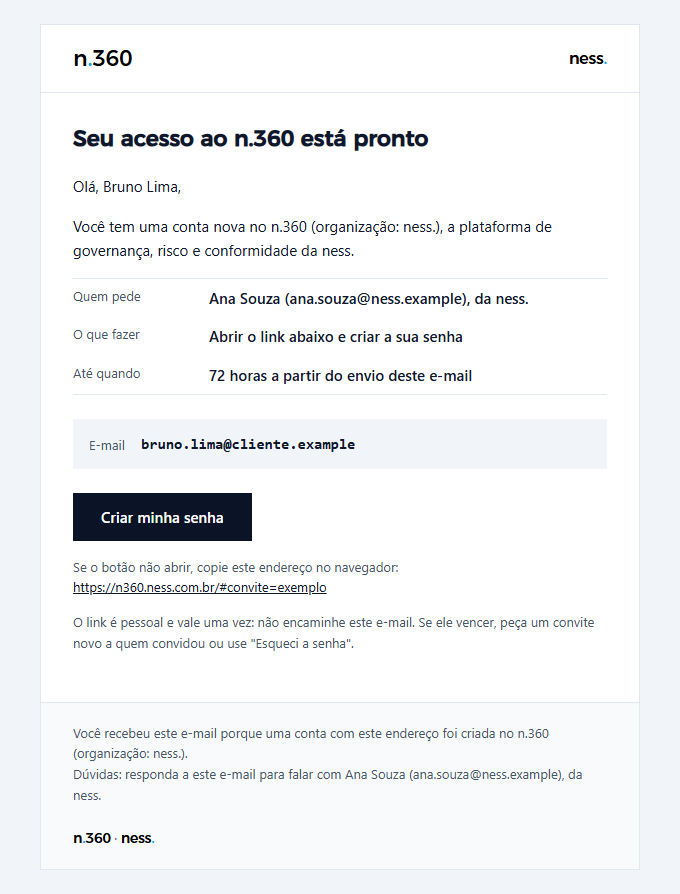
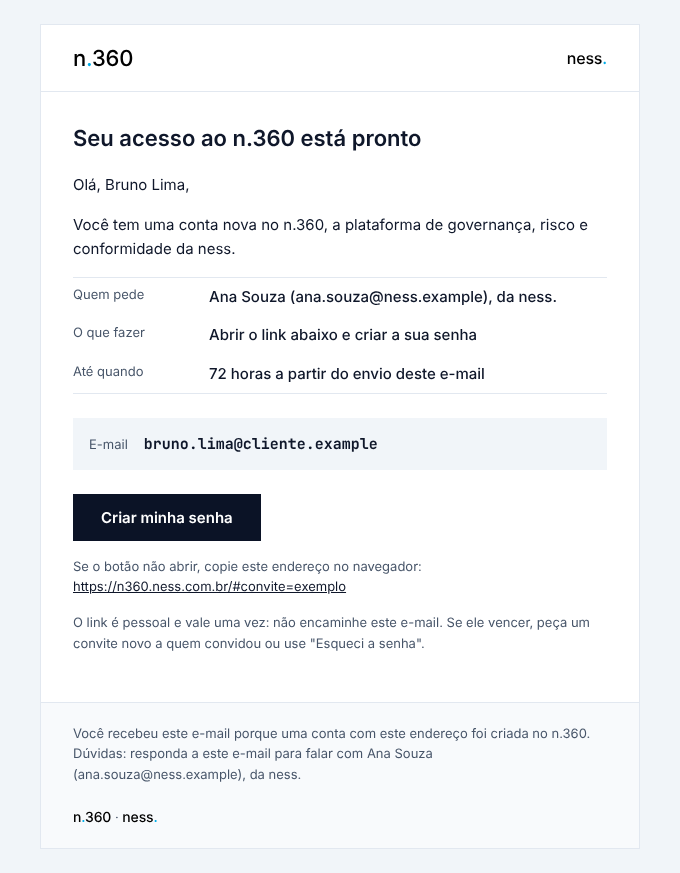
Ajustes da revisao da ficha da atividade
- Progresso da ficha em N de 6 partes: Controle de GAPs e Riscos ficam
  fora da conta e do 'Ir para a proxima pendencia' (numeracao das abas
  mantida); design.md atualizado.
- Regra do art. 11 e do volume ou descricao em funcoes unicas
  (conferencia.ts), usadas pela ficha, pela proxima pergunta e pela
  conferencia.
- Aba Agentes: falha ao carregar as partes avisa como a falha das etapas.
- Guiado: contador ignora as perguntas adiadas; titulo em constante.
- copiloto-etapa: comentario corrigido (parceiro nao conta como base).
- E-mail de boas-vindas: '(consultoria: X)' so para a equipe da
  consultoria; amostra do convite regerada.
- AGENTS.md: excecao da seta das etapas e contagens remedidas.
- CHANGELOG.

diff --git a/docs/design/emails/convite.html b/docs/design/emails/convite.html
@@ -1,14 +1,14 @@
 <!doctype html>
-<html lang="pt-BR"><head><meta charset="utf-8"><meta name="viewport" content="width=device-width, initial-scale=1"><meta name="color-scheme" content="light"><meta name="supported-color-schemes" content="light"><title>Seu acesso ao n.360 (ness.)</title></head>
+<html lang="pt-BR"><head><meta charset="utf-8"><meta name="viewport" content="width=device-width, initial-scale=1"><meta name="color-scheme" content="light"><meta name="supported-color-schemes" content="light"><title>Seu acesso ao n.360</title></head>
 <body style="margin:0;padding:0;background:#f1f5f9;">
-<div style="display:none;max-height:0;overflow:hidden;mso-hide:all;">Sua conta no n.360 foi criada (organização: ness.).</div>
+<div style="display:none;max-height:0;overflow:hidden;mso-hide:all;">Sua conta no n.360 foi criada.</div>
 <table role="presentation" width="100%" cellpadding="0" cellspacing="0" border="0" style="background:#f1f5f9;"><tr><td align="center" style="padding:24px 12px;">
 <table role="presentation" width="600" cellpadding="0" cellspacing="0" border="0" style="width:100%;max-width:600px;background:#ffffff;border:1px solid #e2e8f0;">
 <tr><td style="padding:20px 32px;border-bottom:1px solid #e2e8f0;"><table role="presentation" width="100%" cellpadding="0" cellspacing="0" border="0"><tr>
 <td align="left"><span style="font-family:Montserrat, 'Segoe UI', Arial, sans-serif;font-weight:500;font-size:22px;letter-spacing:-0.01em;color:#000000;">n<span style="color:#00ade8;">.</span>360</span></td><td align="right"><span style="font-family:Montserrat, 'Segoe UI', Arial, sans-serif;font-weight:500;font-size:16px;letter-spacing:-0.01em;color:#000000;">ness<span style="color:#00ade8;">.</span></span></td></tr></table></td></tr>
 <tr><td style="padding:32px;">
 <h1 style="margin:0 0 20px;font-family:Montserrat, 'Segoe UI', Arial, sans-serif;font-weight:600;font-size:22px;line-height:1.3;color:#0f172a;">Seu acesso ao n.360 está pronto</h1>
-<p style="margin:0 0 16px;font-family:Inter, 'Segoe UI', Arial, sans-serif;font-size:15px;line-height:1.6;color:#0f172a;">Olá, Bruno Lima,</p><p style="margin:0 0 16px;font-family:Inter, 'Segoe UI', Arial, sans-serif;font-size:15px;line-height:1.6;color:#0f172a;">Você tem uma conta nova no n.360 (organização: ness.), a plataforma de governança, risco e conformidade da ness.</p>
+<p style="margin:0 0 16px;font-family:Inter, 'Segoe UI', Arial, sans-serif;font-size:15px;line-height:1.6;color:#0f172a;">Olá, Bruno Lima,</p><p style="margin:0 0 16px;font-family:Inter, 'Segoe UI', Arial, sans-serif;font-size:15px;line-height:1.6;color:#0f172a;">Você tem uma conta nova no n.360, a plataforma de governança, risco e conformidade da ness.</p>
 
 <table role="presentation" width="100%" cellpadding="0" cellspacing="0" border="0" style="margin:0 0 24px;border-top:1px solid #e2e8f0;border-bottom:1px solid #e2e8f0;"><tr><td valign="top" style="padding:8px 16px 8px 0;font-family:Inter, 'Segoe UI', Arial, sans-serif;font-size:13px;color:#475569;white-space:nowrap;width:120px;">Quem pede</td><td valign="top" style="padding:8px 0;font-family:Inter, 'Segoe UI', Arial, sans-serif;font-size:15px;line-height:1.5;color:#0f172a;font-weight:500;">Ana Souza (ana.souza@ness.example), da ness.</td></tr><tr><td valign="top" style="padding:8px 16px 8px 0;font-family:Inter, 'Segoe UI', Arial, sans-serif;font-size:13px;color:#475569;white-space:nowrap;width:120px;">O que fazer</td><td valign="top" style="padding:8px 0;font-family:Inter, 'Segoe UI', Arial, sans-serif;font-size:15px;line-height:1.5;color:#0f172a;font-weight:500;">Abrir o link abaixo e criar a sua senha</td></tr><tr><td valign="top" style="padding:8px 16px 8px 0;font-family:Inter, 'Segoe UI', Arial, sans-serif;font-size:13px;color:#475569;white-space:nowrap;width:120px;">Até quando</td><td valign="top" style="padding:8px 0;font-family:Inter, 'Segoe UI', Arial, sans-serif;font-size:15px;line-height:1.5;color:#0f172a;font-weight:500;">72 horas a partir do envio deste e-mail</td></tr></table>
 <table role="presentation" width="100%" cellpadding="0" cellspacing="0" border="0" style="margin:0 0 24px;background:#f1f5f9;"><tr><td style="padding:12px 16px;"><table role="presentation" cellpadding="0" cellspacing="0" border="0"><tr><td style="padding:4px 16px 4px 0;font-family:Inter, 'Segoe UI', Arial, sans-serif;font-size:13px;color:#475569;">E-mail</td><td style="padding:4px 0;font-family:'JetBrains Mono', Consolas, 'Courier New', monospace;font-size:15px;color:#0f172a;"><strong>bruno.lima@cliente.example</strong></td></tr></table></td></tr></table>
@@ -19,7 +19,7 @@
 <p style="margin:0 0 16px;font-family:Inter, 'Segoe UI', Arial, sans-serif;font-size:15px;line-height:1.6;color:#0f172a;font-size:13px;color:#475569;">O link é pessoal e vale uma vez: não encaminhe este e-mail. Se ele vencer, peça um convite novo a quem convidou ou use &quot;Esqueci a senha&quot;.</p>
 </td></tr>
 <tr><td style="padding:20px 32px;background:#f8fafc;border-top:1px solid #e2e8f0;font-family:Inter, 'Segoe UI', Arial, sans-serif;font-size:13px;line-height:1.6;color:#475569;">
-Você recebeu este e-mail porque uma conta com este endereço foi criada no n.360 (organização: ness.).<br>Dúvidas: responda a este e-mail para falar com Ana Souza (ana.souza@ness.example), da ness.<br><br><span style="font-family:Montserrat, 'Segoe UI', Arial, sans-serif;font-weight:500;font-size:14px;letter-spacing:-0.01em;color:#000000;">n<span style="color:#00ade8;">.</span>360</span> <span style="color:#475569;">·</span> <span style="font-family:Montserrat, 'Segoe UI', Arial, sans-serif;font-weight:500;font-size:14px;letter-spacing:-0.01em;color:#000000;">ness<span style="color:#00ade8;">.</span></span>
+Você recebeu este e-mail porque uma conta com este endereço foi criada no n.360.<br>Dúvidas: responda a este e-mail para falar com Ana Souza (ana.souza@ness.example), da ness.<br><br><span style="font-family:Montserrat, 'Segoe UI', Arial, sans-serif;font-weight:500;font-size:14px;letter-spacing:-0.01em;color:#000000;">n<span style="color:#00ade8;">.</span>360</span> <span style="color:#475569;">·</span> <span style="font-family:Montserrat, 'Segoe UI', Arial, sans-serif;font-weight:500;font-size:14px;letter-spacing:-0.01em;color:#000000;">ness<span style="color:#00ade8;">.</span></span>
 </td></tr>
 </table></td></tr></table>
 </body></html>

diff --git a/src/routes/users.ts b/src/routes/users.ts
@@ -5,7 +5,7 @@ import { remetente } from '../services/email-layout';
 import { emailBoasVindas } from '../services/emails';
 import { emitirConvite, linkDoConvite, SEM_SENHA, HORAS_CONVITE } from '../services/convite';
 import { configPorDominio } from '../sso';
-import { genId, hashPassword, logAudit, rateLimitD1, sendEmail, invalidateUserSessions, revogarAgentesPorTrocaDeSenha, erro500, ehConsultor, ehAdminDaOrg, consultorDesignado, PROJETOS_DO_CONSULTOR_SQL, PAPEIS_EQUIPE_ORG } from '../helpers';
+import { genId, hashPassword, logAudit, rateLimitD1, sendEmail, invalidateUserSessions, revogarAgentesPorTrocaDeSenha, erro500, ehConsultor, ehAdminDaOrg, ehEquipeNess, consultorDesignado, PROJETOS_DO_CONSULTOR_SQL, PAPEIS_EQUIPE_ORG } from '../helpers';
 import { validateBody, createUserSchema, updateUserSchema, modulosDaContaSchema, ativoDaContaSchema } from '../schemas';
 import { MODULOS_PRODUTO, NOME_DO_PRODUTO, modulosContratados, modulosDaPessoa, modulosDoProjeto, type Modulo } from '../modulos';
 import { appUrl } from '../config/url';
@@ -183,12 +183,12 @@ async function comModulos<T extends { id: string; role: string; client_project_i
  * uso único, só o hash no banco) e manda o link de criar a senha; o token nunca vai para log, trilha nem resposta. Domínio de e-mail
  * com SSO ativo não ganha link (a pessoa entra pelo IdP). Devolve se o provedor aceitou.
  */
-export async function enviarBoasVindas(c: any, conta: { id: string; email: string; name: string }, nomeOrg: string): Promise<boolean> {
+export async function enviarBoasVindas(c: any, conta: { id: string; email: string; name: string; role: string }, nomeOrg: string): Promise<boolean> {
   const quem = c.get?.('user') as { name?: string; email?: string } | undefined;
   const convidante = quem?.email ? { nome: quem.name ?? null, email: quem.email, organizacao: nomeOrg } : null;
   const sso = await configPorDominio(c.env, conta.email);
   const link = sso ? null : linkDoConvite(c.env, await emitirConvite(c.env.DB, conta.id, quem?.email ?? 'sistema'));
-  const m = emailBoasVindas({ nome: conta.name, email: conta.email, organizacao: nomeOrg, convidante, url: appUrl(c.env), link, horas: HORAS_CONVITE });
+  const m = emailBoasVindas({ nome: conta.name, email: conta.email, organizacao: nomeOrg, equipe: ehEquipeNess(conta), convidante, url: appUrl(c.env), link, horas: HORAS_CONVITE });
   return sendEmail(c, conta.email, m.assunto, m, { from: remetente('n.360', nomeOrg), ...(quem?.email ? { replyTo: quem.email } : {}) });
 }
 
@@ -253,7 +253,7 @@ usersApp.post('/', async (c) => {
 
     await logAudit(c.env.DB, 'user.created', admin.email, `Usuário ${email} criado como ${targetRole}`);
 
-    const emailEnviado = await enviarBoasVindas(c, { id, email, name }, await nomeDaOrg(c.env.DB, orgNovo)).catch(() => false);
+    const emailEnviado = await enviarBoasVindas(c, { id, email, name, role: targetRole }, await nomeDaOrg(c.env.DB, orgNovo)).catch(() => false);
 
     return c.json({ id, email, name, role: targetRole, client_project_id: targetProject, emailEnviado }, 201);
   } catch (e: any) {
@@ -566,7 +566,7 @@ usersApp.post('/:id/reenviar-convite', async (c) => {
     // A senha provisória de antes do convite por link deixa de valer junto com o link anterior.
     await db.prepare('UPDATE users SET password_hash = ? WHERE id = ?').bind(SEM_SENHA, user.id).run();
     await invalidateUserSessions(c.env.SESSIONS, user.id);
-    const emailEnviado = await enviarBoasVindas(c, { id: user.id, email: user.email, name: conta.name ?? '' }, await nomeDaOrg(db, user.org)).catch(() => false);
+    const emailEnviado = await enviarBoasVindas(c, { id: user.id, email: user.email, name: conta.name ?? '', role: user.role }, await nomeDaOrg(db, user.org)).catch(() => false);
     await logAudit(db, 'user.convite_reenviado', c.get('user').email, `Convite da conta ${user.email} (${user.id}) reenviado`, '', c.req.header('CF-Connecting-IP') ?? '',
       user.client_project_id ?? undefined);
     return c.json({ ok: true, emailEnviado });

diff --git a/src/services/ropa-abas/ficha.ts b/src/services/ropa-abas/ficha.ts
@@ -1,6 +1,6 @@
 import { aprovacoesDoProjeto } from '../documentos';
 import { PERGUNTAS_IMPACTO } from '../impacto';
-import { entradaDaConferencia, lerDadosAtividade, montarConferencia, type DadosAtividade } from './conferencia';
+import { entradaDaConferencia, lerDadosAtividade, montarConferencia, sensivelSemArt11, temVolumeOuDescricao, type DadosAtividade } from './conferencia';
 import { lerEtapas, type EtapaDetalhe } from './etapas';
 import { lacunas, type EntradaProxima, type ProximaPergunta } from './proxima-pergunta';
 import { acoesDoMenu, papelDe, podePedirAprovacao, situacaoDaAtividade } from './situacao';
@@ -17,12 +17,12 @@ const plural = (n: number, um: string, varios: string) => `${n} ${n === 1 ? um :
 export function estadoDasAbas(d: DadosAtividade, etapas: EstadoEtapa[]): Record<AbaId, Estado> {
   const feitas = etapas.filter((e) => e.situacao !== 'pendente').length;
   const total = Math.max(etapas.length, 1);
-  const sensivelSemArt11 = !!d.dados_sensiveis && !d.art11 && !d.base_art11_na;
+  const semArt11 = sensivelSemArt11(d.dados_sensiveis, d.art11, d.base_art11_na);
   const temBase = !!(d.base_legal_id || d.art7 || d.art11 || d.gdpr || String(d.legal_basis ?? '').trim());
   const perguntas = PERGUNTAS_IMPACTO.length;
   const respondidas = Math.min(d.respondidas, perguntas);
   return {
-    escopo: String(d.finalidade ?? '').trim() && (String(d.volume_mensal ?? '').trim() || String(d.descricao_atividade ?? '').trim())
+    escopo: String(d.finalidade ?? '').trim() && temVolumeOuDescricao(d)
       ? { estado: 'feito', resumo: 'Finalidade preenchida.' }
       : { estado: 'pendente', resumo: String(d.finalidade ?? '').trim() ? 'Falta o volume mensal ou a descrição.' : 'Falta a finalidade.' },
     tratamento: feitas === etapas.length && etapas.length
@@ -32,7 +32,7 @@ export function estadoDasAbas(d: DadosAtividade, etapas: EstadoEtapa[]): Record<
       ? { estado: 'feito', resumo: [d.papel_controlador ? 'Controlador' : '', d.papel_operador ? 'Operador' : ''].filter(Boolean).join(' e ') + '.' }
       : { estado: 'pendente', resumo: 'Papel não informado.' },
     medidas: d.medidas ? { estado: 'feito', resumo: plural(d.medidas, 'medida', 'medidas') + '.' } : { estado: 'vazio', resumo: 'Nenhuma medida registrada.' },
-    base_juridica: sensivelSemArt11 ? { estado: 'pendente', resumo: 'Dado sensível: falta o inciso do art. 11 ou Não Aplicável.' }
+    base_juridica: semArt11 ? { estado: 'pendente', resumo: 'Dado sensível: falta o inciso do art. 11 ou Não Aplicável.' }
       : temBase ? { estado: 'feito', resumo: [d.art7 ? plural(d.art7, 'inciso do art. 7º', 'incisos do art. 7º') : '', d.art11 ? plural(d.art11, 'inciso do art. 11', 'incisos do art. 11') : '', d.gdpr ? 'GDPR' : ''].filter(Boolean).join(', ') || 'Base registrada.' }
       : { estado: 'vazio', resumo: 'Nenhuma base jurídica registrada.' },
     gaps: d.gaps_nao_aplicavel ? { estado: 'na', resumo: 'Não Aplicável.' }
@@ -86,7 +86,7 @@ export function entradaDaProxima(d: DadosAtividade, detalhe: EtapaDetalhe[], res
     finalidade: d.finalidade,
     responsavel: !!d.owner_parte_id,
     areas,
-    volumeOuDescricao: !!(String(d.volume_mensal ?? '').trim() || String(d.descricao_atividade ?? '').trim()),
+    volumeOuDescricao: temVolumeOuDescricao(d),
     coleta: {
       titulares: (coleta?.titulares ?? []).map((t) => ({ dados: t.dados.length })),
       solicitaConsentimento: coleta?.solicita_consentimento ?? null,
@@ -97,7 +97,7 @@ export function entradaDaProxima(d: DadosAtividade, detalhe: EtapaDetalhe[], res
     papelRespondido: d.papel_controlador != null || d.papel_operador != null,
     temBase: entradaDaConferencia(d, etapas).temBase,
     art11Na: !!d.base_art11_na,
-    sensivelSemArt11: !!d.dados_sensiveis && !d.art11 && !d.base_art11_na,
+    sensivelSemArt11: sensivelSemArt11(d.dados_sensiveis, d.art11, d.base_art11_na),
     medidas: d.medidas,
     impactoRespondidas: respondidas,
     impactoFinalizado: !!d.impacto_finalizado_em,

diff --git a/frontend/src/atividade/guiado.js b/frontend/src/atividade/guiado.js
@@ -49,6 +49,7 @@ export function perguntaAtual(ficha, ropaId) {
     return lacunasDa(ficha).find((p) => !ad.includes(chaveDaPergunta(p))) || null;
 }
 
+const TITULO = '<h3 class="at-guiado-titulo titulo-secao" id="at-guiado-titulo">Entrevista guiada</h3>';
 const rotuloDaAba = (id) => (ABAS.find((a) => a.id === id) || { rotulo: id }).rotulo;
 
 /** O painel à direita da ficha. `null` do servidor: tudo respondido, e as sugestões (gaps e riscos) abrem as abas, não perguntam. */
@@ -62,15 +63,16 @@ export function painelGuiado(ficha, ropaId) {
     const chave = chaveDaPergunta(p);
     const t = textoDaPergunta(p);
     const avisos = [];
-    // O servidor só devolve o que falta (o respondido some da lista), então o total é o que está em aberto agora.
-    const abertas = lacunasDa(ficha);
+    // O servidor só devolve o que falta (o respondido some da lista); as adiadas ("Não sei agora") ficam fora da conta.
+    const ad = adiadas(ropaId);
+    const abertas = lacunasDa(ficha).filter((x) => !ad.includes(chaveDaPergunta(x)));
     const n = abertas.length;
     const posicao = abertas.findIndex((x) => chaveDaPergunta(x) === chave) + 1;
     const contagem = n === 1 ? 'Última pergunta em aberto' : `Pergunta ${posicao} de ${n} em aberto`;
     if (tentativa === chave) avisos.push('Responda o campo para continuar, ou use "Não sei agora".');
     tentativa = null;
     return `<aside class="at-guiado" aria-labelledby="at-guiado-titulo">
-        <h3 class="at-guiado-titulo titulo-secao" id="at-guiado-titulo">Entrevista guiada</h3>
+        ${TITULO}
         <p class="at-guiado-contagem">${contagem}</p>
         <p class="at-guiado-pergunta">${escapeHTML(t.titulo)}</p>
         ${t.ajuda ? `<p class="at-guiado-ajuda">${escapeHTML(t.ajuda)}</p>` : ''}
@@ -89,7 +91,7 @@ export function painelGuiado(ficha, ropaId) {
 function painelPendencias(pendentes) {
     const n = pendentes.length;
     return `<aside class="at-guiado" aria-labelledby="at-guiado-titulo">
-        <h3 class="at-guiado-titulo titulo-secao" id="at-guiado-titulo">Entrevista guiada</h3>
+        ${TITULO}
         <p class="at-guiado-pergunta">${n === 1 ? 'Falta 1 resposta' : `Faltam ${n} respostas`} que você deixou para depois.</p>
         <ul class="at-guiado-pendencias">${pendentes.map((x) => `<li><span>${escapeHTML(textoDaPergunta(x).titulo)} <span class="at-guiado-onde">(${escapeHTML(rotuloDaAba(x.aba))})</span></span>
             <button type="button" class="btn btn-sm" data-action="atGuiadoRetomar" data-chave="${escapeHTML(chaveDaPergunta(x))}">Responder agora</button></li>`).join('')}</ul>
@@ -102,7 +104,7 @@ function painelFim(ficha) {
     const sugestoes = [['gaps', 'Quer registrar os gaps agora?'], ['riscos', 'Quer registrar os riscos agora?']]
         .filter(([aba]) => ficha.abas && ficha.abas[aba] && ficha.abas[aba].estado === 'vazio');
     return `<aside class="at-guiado" aria-labelledby="at-guiado-titulo">
-        <h3 class="at-guiado-titulo titulo-secao" id="at-guiado-titulo">Entrevista guiada</h3>
+        ${TITULO}
         <p class="at-guiado-pergunta">Tudo respondido.</p>
         <div class="at-guiado-acoes">
             ${sugestoes.map(([aba, rotulo]) => `<button type="button" class="btn" data-action="atIrParaAba" data-aba="${aba}">${escapeHTML(rotulo)}</button>`).join('')}

diff --git a/frontend/test/atividade-casca.test.js b/frontend/test/atividade-casca.test.js
@@ -102,28 +102,35 @@ describe('faixa de abas', () => {
 describe('progresso (onde estou)', () => {
   const progresso = () => el('c').querySelector('.at-progresso');
 
-  it('conta as 8 partes feitas (não se aplica conta; Logs fica fora) e aponta a primeira pendente ou vazia', async () => {
+  it('conta as 6 partes feitas (não se aplica conta; Logs, Gaps e Riscos ficam fora) e aponta a primeira pendente ou vazia', async () => {
     await abrir(renderAtividade);
-    expect(progresso().textContent.replace(/\s+/g, ' ').trim()).toContain('3 de 8 partes concluídas · Próximo: Tratamento de Dados');
+    expect(progresso().textContent.replace(/\s+/g, ' ').trim()).toContain('2 de 6 partes concluídas · Próximo: Tratamento de Dados');
     const ir = progresso().querySelector('[data-action="atIrParaPendencia"]');
     expect(ir.textContent).toBe('Ir para a próxima pendência');
     expect(ir.classList.contains('btn-primary')).toBe(false);
     expect(ir.dataset.aba).toBe('tratamento');
   });
 
-  it('Logs pendente não conta nem vira a próxima; gaps "não se aplica" conta como concluída', async () => {
+  it('Logs, Gaps e Riscos pendentes não contam nem viram a próxima; "não se aplica" conta como concluída', async () => {
     await abrir(renderAtividade, {}, FICHA((f) => {
       Object.keys(f.abas).forEach((k) => { f.abas[k].estado = 'feito'; });
-      f.abas.gaps.estado = 'na'; f.abas.riscos.estado = 'vazio'; f.abas.logs.estado = 'pendente';
+      f.abas.medidas.estado = 'na'; f.abas.impacto.estado = 'vazio';
+      f.abas.gaps.estado = 'pendente'; f.abas.riscos.estado = 'vazio'; f.abas.logs.estado = 'pendente';
       return f;
     }));
-    expect(progresso().textContent).toContain('7 de 8 partes concluídas');
-    expect(progresso().textContent).toContain('Próximo: Riscos');
+    expect(progresso().textContent).toContain('5 de 6 partes concluídas');
+    expect(progresso().textContent).toContain('Próximo: Teste de Impacto');
+    expect(progresso().querySelector('[data-action="atIrParaPendencia"]').dataset.aba).toBe('impacto');
+    expect(el('c').querySelector('#at-aba-riscos').dataset.estado).toBe('vazio');
   });
 
-  it('tudo feito: "Todas as 8 partes concluídas" e o próximo passo é a aprovação, sem botão', async () => {
-    await abrir(renderAtividade, {}, FICHA((f) => { Object.keys(f.abas).forEach((k) => { f.abas[k].estado = 'feito'; }); return f; }));
-    expect(progresso().textContent).toContain('Todas as 8 partes concluídas');
+  it('as 6 feitas (Gaps e Riscos vazios): "Todas as 6 partes concluídas" e o próximo passo é a aprovação, sem botão', async () => {
+    await abrir(renderAtividade, {}, FICHA((f) => {
+      Object.keys(f.abas).forEach((k) => { f.abas[k].estado = 'feito'; });
+      f.abas.gaps.estado = 'vazio'; f.abas.riscos.estado = 'vazio';
+      return f;
+    }));
+    expect(progresso().textContent).toContain('Todas as 6 partes concluídas');
     expect(progresso().textContent).toContain('Próximo: enviar para aprovação no menu Ações');
     expect(progresso().querySelector('button')).toBeNull();
   });

diff --git a/src/services/emails.ts b/src/services/emails.ts
@@ -15,12 +15,14 @@ const ola = (nome?: string | null) => (nome ? `Olá, ${nome},` : 'Olá,');
  * Convite de primeiro acesso. Nunca leva senha: com `link`, o botão "Criar minha senha" (token de uso único no fragmento, 72 h);
  * sem `link` (o domínio do e-mail entra por SSO), a pessoa entra pelo login único da empresa.
  */
-export function emailBoasVindas(d: { nome: string; email: string; organizacao: string; convidante: Pessoa | null; url: string; link: string | null; horas: number }): EmailComAssunto {
-  return com(`Seu acesso ao n.360 (${d.organizacao})`, {
-    previa: `Sua conta no n.360 foi criada (consultoria: ${d.organizacao}).`,
+export function emailBoasVindas(d: { nome: string; email: string; organizacao: string; equipe: boolean; convidante: Pessoa | null; url: string; link: string | null; horas: number }): EmailComAssunto {
+  // "(consultoria: X)" só para a equipe da consultoria; cliente, org_user e stakeholder não são dela.
+  const daConsultoria = d.equipe ? ` (consultoria: ${d.organizacao})` : '';
+  return com(d.equipe ? `Seu acesso ao n.360 (${d.organizacao})` : 'Seu acesso ao n.360', {
+    previa: `Sua conta no n.360 foi criada${daConsultoria}.`,
     titulo: 'Seu acesso ao n.360 está pronto',
     saudacao: ola(d.nome),
-    paragrafos: [`Você tem uma conta nova no n.360 (consultoria: ${d.organizacao}), a plataforma de governança, risco e conformidade da ness.`],
+    paragrafos: [`Você tem uma conta nova no n.360${daConsultoria}, a plataforma de governança, risco e conformidade da ness.`],
     quemPede: d.convidante ?? { organizacao: d.organizacao },
     acao: d.link ? 'Abrir o link abaixo e criar a sua senha' : 'Entrar com o login único (SSO) da sua empresa, usando este e-mail',
     prazo: d.link ? `${d.horas} horas a partir do envio deste e-mail` : null,
@@ -29,7 +31,7 @@ export function emailBoasVindas(d: { nome: string; email: string; organizacao: s
     notas: d.link
       ? ['O link é pessoal e vale uma vez: não encaminhe este e-mail. Se ele vencer, peça um convite novo a quem convidou ou use "Esqueci a senha".']
       : ['Sua empresa usa login único: não há senha do n.360 para criar.'],
-    motivo: `uma conta com este endereço foi criada no n.360 (consultoria: ${d.organizacao}).`,
+    motivo: `uma conta com este endereço foi criada no n.360${daConsultoria}.`,
     contato: d.convidante?.email ? d.convidante : null,
   });
 }

diff --git a/src/services/ropa-abas/conferencia.ts b/src/services/ropa-abas/conferencia.ts
@@ -10,13 +10,19 @@ export type EntradaConferencia = {
 };
 
 /** Função pura: o que impede (bloqueios) e o que só avisa (avisos) antes de pedir a aprovação. Sistema vazio: bloqueia e avisa, nunca quebra. */
+/** Dado sensível sem inciso do art. 11 nem "Não Aplicável": a regra única da conferência, das abas e da próxima pergunta. */
+export const sensivelSemArt11 = (sensivel: unknown, art11Incisos: number, art11Na: unknown) => !!sensivel && !art11Incisos && !art11Na;
+/** O Escopo pede volume mensal OU descrição, além da finalidade. */
+export const temVolumeOuDescricao = (d: { volume_mensal?: unknown; descricao_atividade?: unknown }) =>
+  !!(String(d.volume_mensal ?? '').trim() || String(d.descricao_atividade ?? '').trim());
+
 export function montarConferencia(e: EntradaConferencia): Conferencia {
   const bloqueios: ItemConferencia[] = [];
   const avisos: ItemConferencia[] = [];
   const pendentes = e.etapas.filter((x) => x.situacao === 'pendente').length;
   if (!String(e.finalidade ?? '').trim()) bloqueios.push({ id: 'sem_finalidade', aba: 'escopo', texto: 'Escopo: preencha a finalidade.' });
   if (pendentes) bloqueios.push({ id: 'etapa_pendente', aba: 'tratamento', texto: `Tratamento de Dados: ${pendentes} ${pendentes === 1 ? 'etapa pendente' : 'etapas pendentes'}.` });
-  if (e.dadosSensiveis && !e.art11Incisos && !e.art11Na) bloqueios.push({ id: 'sensivel_sem_art11', aba: 'base_juridica', texto: 'Base Jurídica: há dado sensível; informe o inciso do art. 11 ou marque Não Aplicável.' });
+  if (sensivelSemArt11(e.dadosSensiveis, e.art11Incisos, e.art11Na)) bloqueios.push({ id: 'sensivel_sem_art11', aba: 'base_juridica', texto: 'Base Jurídica: há dado sensível; informe o inciso do art. 11 ou marque Não Aplicável.' });
   if (!e.impactoFinalizado) bloqueios.push({ id: 'impacto_nao_finalizado', aba: 'impacto', texto: 'Teste de Impacto: finalize o teste.' });
   if (e.gapsAbertosSemResponsavel) bloqueios.push({ id: 'gap_sem_responsavel', aba: 'gaps', texto: `Controle de GAPs: ${e.gapsAbertosSemResponsavel} ${e.gapsAbertosSemResponsavel === 1 ? 'gap sem responsável' : 'gaps sem responsável'}.` });
   if (!e.medidas) avisos.push({ id: 'sem_medidas', aba: 'medidas', texto: 'Nenhuma medida de segurança registrada.' });

diff --git a/frontend/test/atividade-guiado.test.js b/frontend/test/atividade-guiado.test.js
@@ -137,11 +137,13 @@ describe('painel guiado', () => {
         expect(new URL(window.location.href).searchParams.get('modo')).toBe('guiado');
     });
 
-    it('conta as perguntas em aberto (o servidor só devolve o que falta)', () => {
-        const lacunas = [{ aba: 'escopo', campo: 'finalidade' }, { aba: 'agentes', campo: 'papel' }];
-        expect(painel(painelGuiado({ ...ficha(lacunas[0]), lacunas }, 'r1')).querySelector('.at-guiado-contagem').textContent).toBe('Pergunta 1 de 2 em aberto');
+    it('conta as perguntas em aberto (o servidor só devolve o que falta; as adiadas ficam fora)', () => {
+        const lacunas = [{ aba: 'escopo', campo: 'finalidade' }, { aba: 'agentes', campo: 'papel' }, { aba: 'medidas', campo: 'medida' }];
+        expect(painel(painelGuiado({ ...ficha(lacunas[0]), lacunas }, 'r1')).querySelector('.at-guiado-contagem').textContent).toBe('Pergunta 1 de 3 em aberto');
         window.sessionStorage.setItem('ra.adiadas.r1', JSON.stringify(['escopo/finalidade']));
-        expect(painel(painelGuiado({ ...ficha(lacunas[0]), lacunas }, 'r1')).querySelector('.at-guiado-contagem').textContent).toBe('Pergunta 2 de 2 em aberto');
+        expect(painel(painelGuiado({ ...ficha(lacunas[0]), lacunas }, 'r1')).querySelector('.at-guiado-contagem').textContent).toBe('Pergunta 1 de 2 em aberto');
+        window.sessionStorage.setItem('ra.adiadas.r1', JSON.stringify(['escopo/finalidade', 'medidas/medida']));
+        expect(painel(painelGuiado({ ...ficha(lacunas[0]), lacunas }, 'r1')).querySelector('.at-guiado-contagem').textContent).toBe('Última pergunta em aberto');
         expect(painel(painelGuiado({ ...ficha(lacunas[0]), lacunas: [lacunas[0]] }, 'r2')).querySelector('.at-guiado-contagem').textContent).toBe('Última pergunta em aberto');
     });
 

diff --git a/test/revisao-final-decididos.test.ts b/test/revisao-final-decididos.test.ts
@@ -201,15 +201,17 @@ describe('d) prefixo de proposta único no banco', () => {
 });
 
 describe('e) e-mail de boas-vindas com o nome da organização', () => {
-  it('conta criada pelo consultoria_admin da org B: o nome dela, escapado; pela ness.: "ness."', async () => {
+  it('equipe criada pelo consultoria_admin da org B: o nome dela, escapado; conta de cliente: sem "(consultoria: ...)"', async () => {
     const enviados = espiarEmail();
-    let res = await chamar('POST', '/api/v1/users', S.ab, { email: 'cli-novo@b.lat', password: SENHA, name: 'N', role: 'org_user', client_project_id: 'p-b' }, comEmail);
+    let res = await chamar('POST', '/api/v1/users', S.ab, { email: 'cons-novo@b.lat', password: SENHA, name: 'N', role: 'consultor' }, comEmail);
     expect(res.status, await res.clone().text()).toBe(201);
     expect(enviados[0].html).toContain('(consultoria: Consultoria &lt;B&gt;)');
     expect(enviados[0].html).not.toContain('<strong>ness.</strong>');
+    res = await chamar('POST', '/api/v1/users', S.ab, { email: 'cli-novo@b.lat', password: SENHA, name: 'N', role: 'org_user', client_project_id: 'p-b' }, comEmail);
+    expect(res.status, await res.clone().text()).toBe(201);
     res = await chamar('POST', '/api/v1/users', S.pa, { email: 'cli-n@n.lat', password: SENHA, name: 'N', role: 'org_user', client_project_id: 'p-n' }, comEmail);
     expect(res.status).toBe(201);
-    expect(enviados[1].html).toContain('(consultoria: ness.)');
+    for (const m of enviados.slice(1)) { expect(m.html).not.toContain('(consultoria:'); expect(m.text).not.toContain('(consultoria:'); }
   });
 
   it('provisionamento de organização: o nome da organização nova', async () => {

diff --git a/frontend/src/atividade/abas.js b/frontend/src/atividade/abas.js
@@ -5,16 +5,18 @@ const ESTADO = { feito: 'feito', pendente: 'pendente', na: 'não se aplica', vaz
 // Logs ROPA é histórico, nunca uma parte a concluir: fica sem número e sem estado de feito/pendente.
 const PARTES = ABAS.filter((a) => a.id !== 'logs');
 const numeroDa = (id) => PARTES.findIndex((a) => a.id === id) + 1;
+// Gaps e Riscos são sugestão, não pendência (como no guiado): mostram o estado na barra, mas ficam fora da conta e do "Próximo".
+const CONTAM = PARTES.filter((a) => a.id !== 'gaps' && a.id !== 'riscos');
 
 /**
- * Onde a atividade está: quantas das 8 partes estão concluídas e qual é a próxima (a primeira pendente ou vazia, na ordem).
+ * Onde a atividade está: quantas das 6 partes (sem Gaps e Riscos) estão concluídas e qual é a próxima (a primeira pendente ou vazia, na ordem).
  * "Não se aplica" conta como concluída: a parte foi resolvida e nunca vira "feito".
  */
 export function progressoDaFicha(ficha) {
     const est = (id) => ((ficha.abas || {})[id] || { estado: 'vazio' }).estado;
-    const feitas = PARTES.filter((a) => est(a.id) === 'feito' || est(a.id) === 'na').length;
-    const proxima = PARTES.find((a) => est(a.id) === 'pendente' || est(a.id) === 'vazio') || null;
-    return { feitas, total: PARTES.length, proxima };
+    const feitas = CONTAM.filter((a) => est(a.id) === 'feito' || est(a.id) === 'na').length;
+    const proxima = CONTAM.find((a) => est(a.id) === 'pendente' || est(a.id) === 'vazio') || null;
+    return { feitas, total: CONTAM.length, proxima };
 }
 
 /** A linha de progresso acima das abas. O botão é secundário: a ficha não tem ação principal. */

diff --git a/src/routes/organizacoes.ts b/src/routes/organizacoes.ts
@@ -65,7 +65,7 @@ organizacoesApp.post('/', async (c) => {
       if (unico(e)) return c.json({ error: 'Slug, prefixo de proposta ou e-mail já cadastrado' }, 409);
       throw e;
     }
-    const emailEnviado = await enviarBoasVindas(c, { id: adminId, email: b.adminEmail, name: b.adminNome }, b.nome).catch(() => false);
+    const emailEnviado = await enviarBoasVindas(c, { id: adminId, email: b.adminEmail, name: b.adminNome, role: 'consultoria_admin' }, b.nome).catch(() => false);
     return c.json({ id, slug: b.slug, adminId, adminEmail: b.adminEmail, emailEnviado }, 201);
   } catch (e) { return erro500(c, 'Erro ao criar a consultoria', e); }
 });
@@ -162,7 +162,7 @@ organizacoesApp.post('/:id/reenviar-convite', async (c) => {
     await db.prepare('UPDATE users SET password_hash = ?, requires_password_change = 1 WHERE id = ?').bind(SEM_SENHA, admin.id).run();
     await invalidateUserSessions(c.env.SESSIONS, admin.id);
     await logAudit(db, 'org.convite_reenviado', c.get('user').email, `Convite do administrador ${admin.email} da organização ${id} reenviado`);
-    const emailEnviado = await enviarBoasVindas(c, admin, org.name).catch(() => false);
+    const emailEnviado = await enviarBoasVindas(c, { ...admin, role: 'consultoria_admin' }, org.name).catch(() => false);
     return c.json({ emailEnviado });
   } catch (e) { return erro500(c, 'Erro ao reenviar o convite', e); }
 });

diff --git a/src/services/copiloto-etapa.ts b/src/services/copiloto-etapa.ts
@@ -22,8 +22,8 @@ import { modulosDaPessoa, modulosDoProjeto, recusaDaPessoa, recusaDeModulo } fro
  *    Indício no texto da pessoa vira só `avisos` (regex do servidor).
  *  - Saída validada campo a campo; texto cortado no teto da etapa (4.000). Origem só na Coleta, só ids de ORIGENS_DOS_DADOS.
  *  - Modelo ausente, falhando ou fora do formato: `{ indisponivel: true }`, sem trilha e sem erro.
- *  - Sem base (nenhum titular na Coleta, ativo, área, parceiro, descrição atual nem nota), o modelo NÃO é chamado: só a finalidade
- *    não sustenta texto e ele inventava. Volta `sem_base: true` com o que falta, sem trilha (nada foi gerado).
+ *  - Sem base (nenhum titular na Coleta, ativo, área, descrição atual nem nota), o modelo NÃO é chamado: só a finalidade
+ *    não sustenta texto e ele inventava. Parceiro não conta como base: o nome dele não vai ao modelo. Volta `sem_base: true` com o que falta, sem trilha (nada foi gerado).
  *  - Com base, a resposta diz de onde veio (`fontes`, só o que foi enviado e não está vazio).
  */
 
